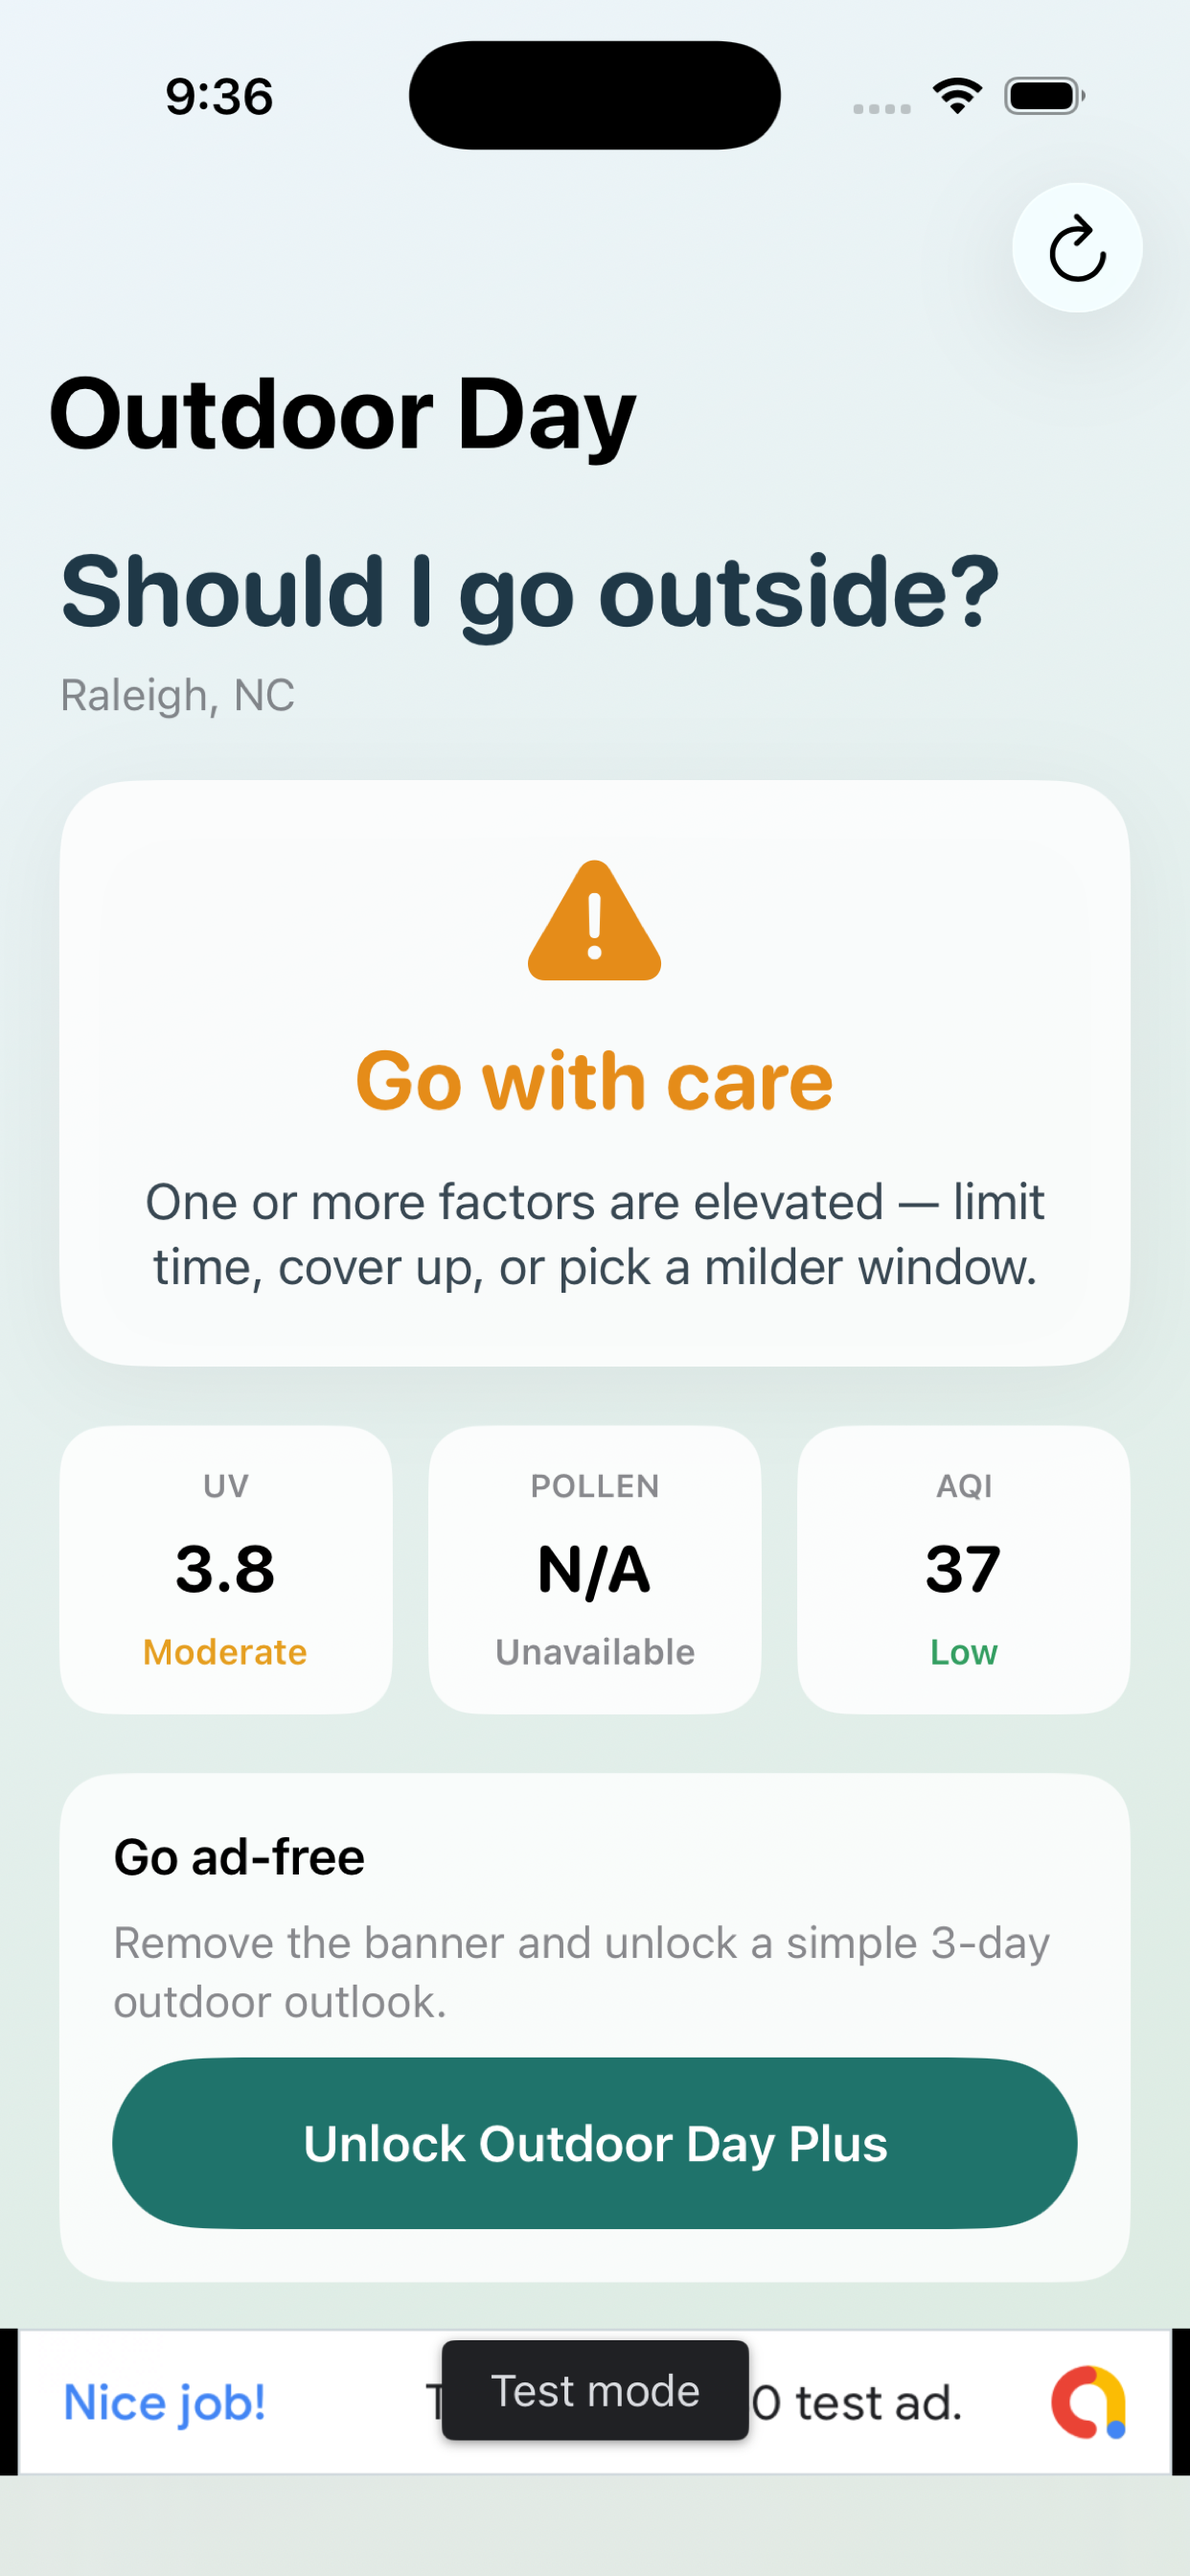
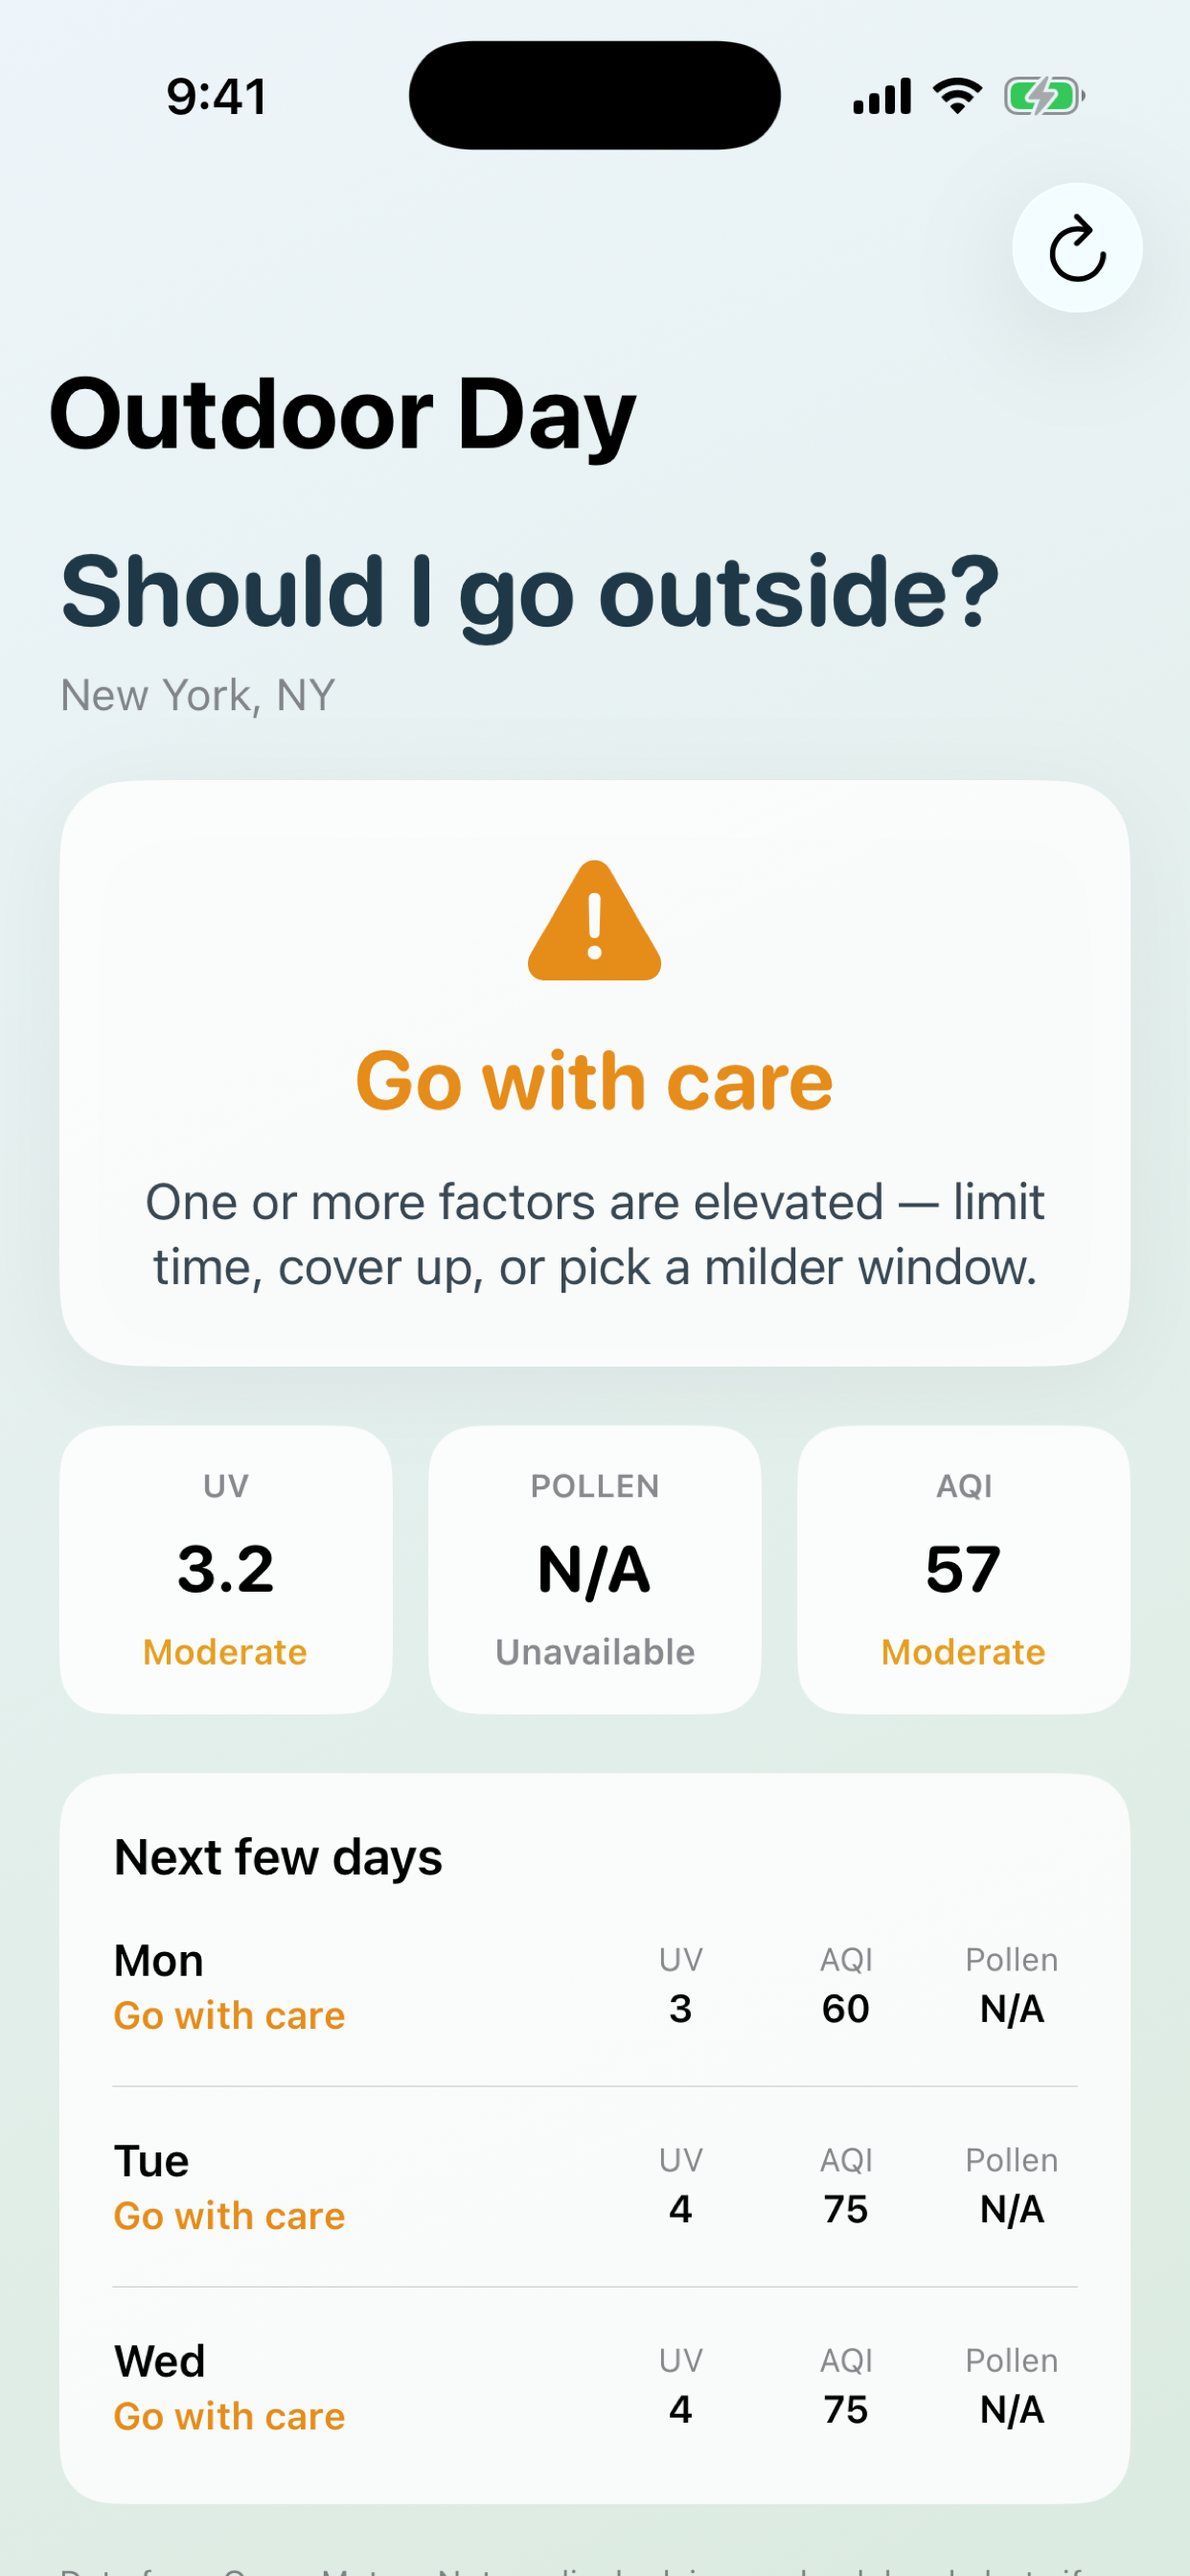
Add clean App Store screenshots and screenshot tooling bypasses.
Skip ATT/ads/location prompts when skipATT is set so listing captures stay overlay-free, and retry ASC wait-and-ship on transient 500s.

diff --git a/OutdoorDay/Monetization/AdsService.swift b/OutdoorDay/Monetization/AdsService.swift
@@ -22,20 +22,24 @@ final class AdsService {
         guard !didStartSDK else { return }
         didStartSDK = true
 
-        #if DEBUG
-        MobileAds.shared.requestConfiguration.testDeviceIdentifiers = ["Simulator"]
-        #endif
-
         // Ask for ATT before initializing the ads SDK (App Store requirement when tracking).
         Task { @MainActor in
+            // Brief yield so simulator `defaults write` / container prefs are visible
+            // before the first UserDefaults read (screenshot tooling uses skipATT).
+            try? await Task.sleep(nanoseconds: 150_000_000)
+            UserDefaults.standard.synchronize()
+            #if DEBUG
+            Self.writeScreenshotDebugLog()
+            #endif
             // Screenshot tooling: `defaults write us.letshang.outdoor-day skipATT -bool YES`
+            // Do not touch MobileAds / BannerView at all when skipping — any GMA access can present ATT.
             if Self.shouldSkipATT {
-                self.isReady = true
-                let actions = self.pendingActions
                 self.pendingActions = []
-                actions.forEach { $0() }
                 return
             }
+            #if DEBUG
+            MobileAds.shared.requestConfiguration.testDeviceIdentifiers = ["Simulator"]
+            #endif
             await self.requestTrackingIfNeeded()
             self.startMobileAds()
         }
@@ -46,6 +50,21 @@ final class AdsService {
             || ProcessInfo.processInfo.environment["SKIP_ATT"] == "1"
             || UserDefaults.standard.bool(forKey: "skipATT")
     }
+
+    #if DEBUG
+    private static func writeScreenshotDebugLog() {
+        let defaults = UserDefaults.standard
+        let line = [
+            "skipATT_bool=\(defaults.bool(forKey: "skipATT"))",
+            "skipATT_obj=\(String(describing: defaults.object(forKey: "skipATT")))",
+            "forcePremium=\(defaults.bool(forKey: "forcePremium"))",
+            "args=\(ProcessInfo.processInfo.arguments)",
+            "bundle=\(Bundle.main.bundleIdentifier ?? "nil")"
+        ].joined(separator: " ")
+        guard let docs = FileManager.default.urls(for: .documentDirectory, in: .userDomainMask).first else { return }
+        try? (line + "\n").write(to: docs.appendingPathComponent("screenshot-debug.txt"), atomically: true, encoding: .utf8)
+    }
+    #endif
 
     private func requestTrackingIfNeeded() async {
         guard #available(iOS 14, *) else { return }

diff --git a/OutdoorDay/Monetization/AdBannerView.swift b/OutdoorDay/Monetization/AdBannerView.swift
@@ -14,10 +14,17 @@ struct AdBannerView: UIViewRepresentable {
         Coordinator(adUnitID: adUnitID)
     }
 
+    private static var skipAds: Bool {
+        UserDefaults.standard.bool(forKey: "skipATT")
+            || ProcessInfo.processInfo.arguments.contains("-skipATT")
+            || ProcessInfo.processInfo.environment["SKIP_ATT"] == "1"
+    }
+
     func makeUIView(context: Context) -> UIView {
         let container = UIView()
         container.backgroundColor = .clear
         container.clipsToBounds = true
+        if Self.skipAds { return container }
 
         let banner = BannerView(adSize: AdSizeBanner)
         banner.adUnitID = adUnitID
@@ -53,6 +60,15 @@ struct AdBannerView: UIViewRepresentable {
 
         func scheduleLoad() {
             Task { @MainActor in
+                #if DEBUG
+                if UserDefaults.standard.bool(forKey: "skipATT")
+                    || ProcessInfo.processInfo.arguments.contains("-skipATT")
+                    || ProcessInfo.processInfo.environment["SKIP_ATT"] == "1" {
+                    return
+                }
+                #endif
+                // Also honor skipATT outside DEBUG for screenshot tooling defaults.
+                if UserDefaults.standard.bool(forKey: "skipATT") { return }
                 AdsService.shared.whenReady { [weak self] in
                     guard let self, !self.hasLoaded, let banner = self.bannerView else { return }
                     banner.rootViewController = AdsService.topViewController

diff --git a/OutdoorDay/Services/LocationManager.swift b/OutdoorDay/Services/LocationManager.swift
@@ -24,6 +24,11 @@ final class LocationManager: NSObject, ObservableObject {
 
     func request() {
         statusMessage = nil
+        // Screenshot tooling: skip the system location dialog and seed NYC.
+        if Self.shouldSkipLocationPrompt {
+            applyScreenshotLocation()
+            return
+        }
         switch manager.authorizationStatus {
         case .notDetermined:
             manager.requestWhenInUseAuthorization()
@@ -35,6 +40,20 @@ final class LocationManager: NSObject, ObservableObject {
         @unknown default:
             statusMessage = "Unable to read location permission."
         }
+    }
+
+    private static var shouldSkipLocationPrompt: Bool {
+        UserDefaults.standard.bool(forKey: "skipATT")
+            || ProcessInfo.processInfo.arguments.contains("-skipATT")
+            || ProcessInfo.processInfo.environment["SKIP_ATT"] == "1"
+    }
+
+    private func applyScreenshotLocation() {
+        authorizationDenied = false
+        let nyc = CLLocationCoordinate2D(latitude: 40.7128, longitude: -74.0060)
+        coordinate = nyc
+        placeName = "New York, NY"
+        statusMessage = nil
     }
 }
 

diff --git a/OutdoorDay/ContentView.swift b/OutdoorDay/ContentView.swift
@@ -10,6 +10,12 @@ struct ContentView: View {
     @EnvironmentObject private var purchases: PurchaseManager
     @State private var showPaywall = false
 
+    private static var skipAdsForScreenshots: Bool {
+        UserDefaults.standard.bool(forKey: "skipATT")
+            || ProcessInfo.processInfo.arguments.contains("-skipATT")
+            || ProcessInfo.processInfo.environment["SKIP_ATT"] == "1"
+    }
+
     var body: some View {
         NavigationStack {
             ZStack {
@@ -42,7 +48,7 @@ struct ContentView: View {
                 .refreshable { await model.refresh() }
             }
             .safeAreaInset(edge: .bottom) {
-                if !purchases.isPremium {
+                if !purchases.isPremium && !Self.skipAdsForScreenshots {
                     AdBannerView()
                         .frame(height: 50)
                         .background(.ultraThinMaterial)
